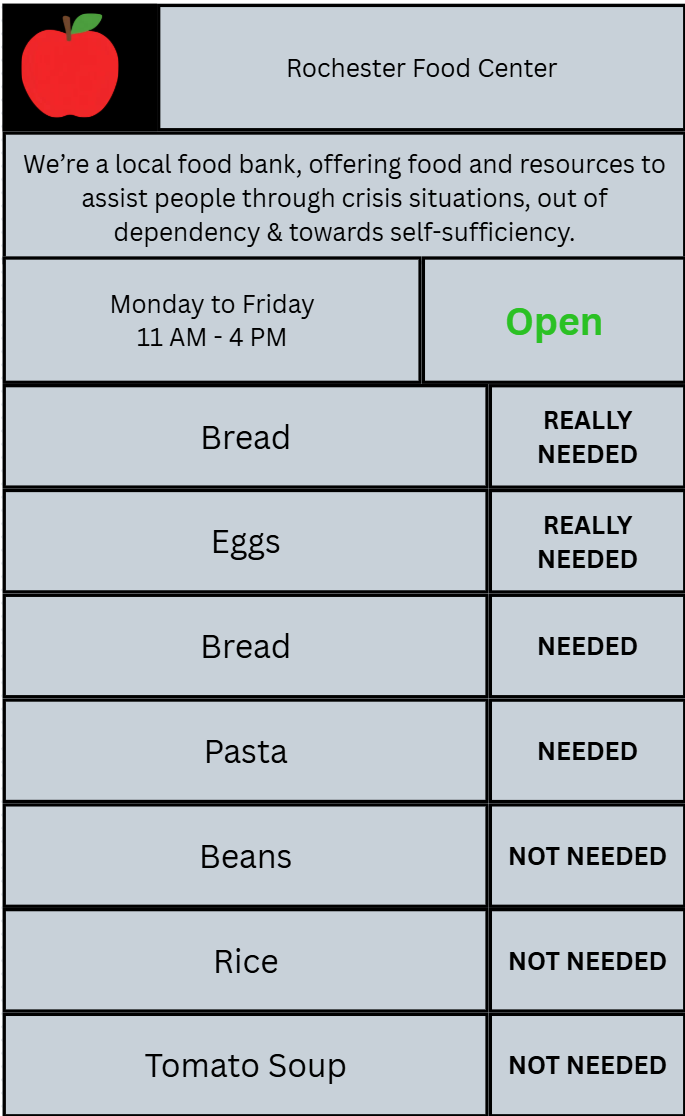
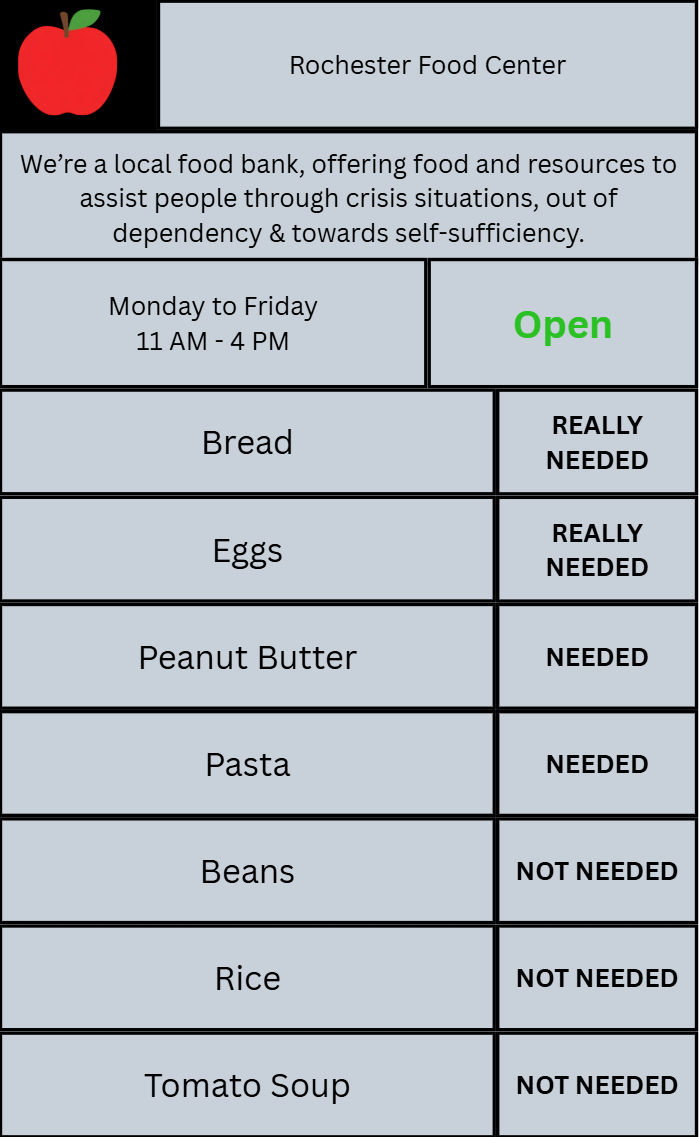
Image sizes

diff --git a/UserHome.html b/UserHome.html
@@ -57,7 +57,7 @@
     </div>
 
     <div style = "background-color: rgb(65, 67, 67);">
-        <img src="user_info_page.png" alt="Info of local Food Bank">
+        <img src="user_info.png" alt="Info of local Food Bank">
     </div>
 </div>
 
